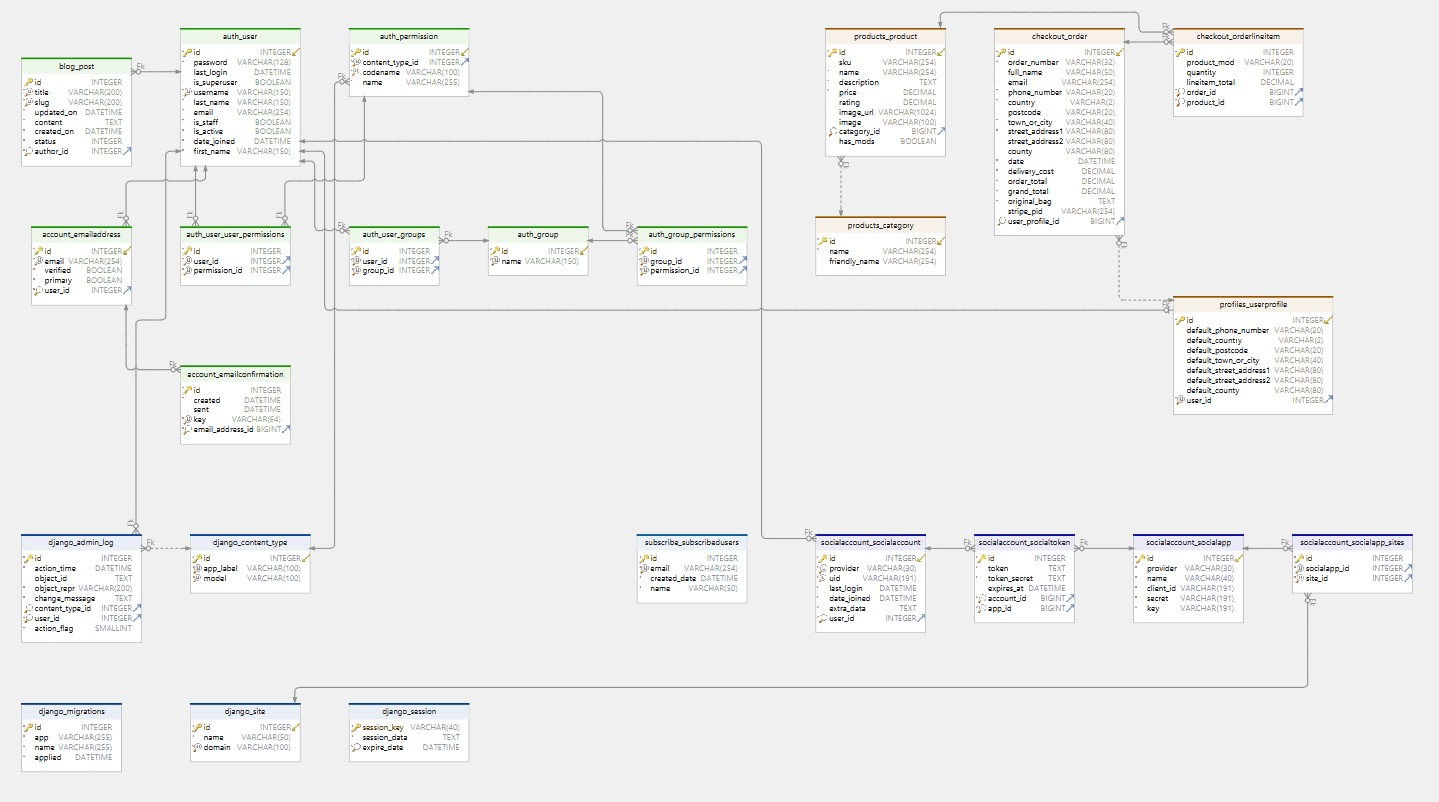
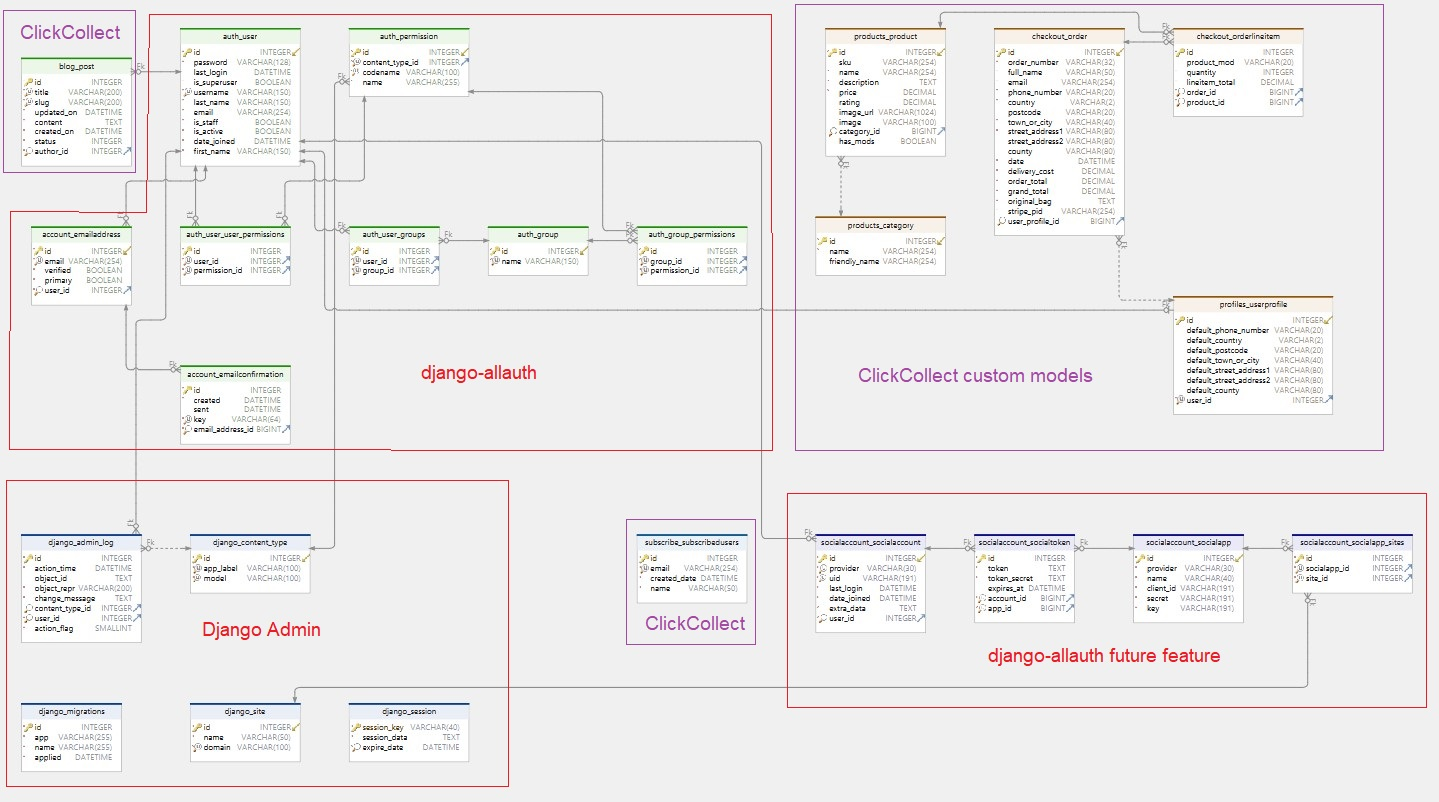
Update db readme section with custom models erd

diff --git a/README.md b/README.md
@@ -292,7 +292,9 @@ Database Entity Relationship Diagram (PostgreSQL)
 
 #### Database Tables
 
-In Django, data is created in objects called Models, which are actually tables in a database.
+In Django, data is created in objects called Models, which are actually tables in a database. The following are the custom built models for this app. Models generated by *allauth* or *Django Admin* are not covered here.
+
+<h2 align="left"><img src="docs/pictures/db-models.jpg"></h2>
 
 **Blog Model**
 
@@ -614,7 +616,7 @@ This page replaces the standard Django **Internal Server Error** page with one m
 * PDF Reader from [Adobe Acrobat Reader](https://www.adobe.com/uk/)
 * Flowchart by [diagrams.net/draw.io](https://www.diagrams.net/)
 * PostgreSQL ERD created by [DbSchema](https://dbschema.com/)
-* Python code summaries generated by ChatGPT from [OpenAI](https://openai.com/)
+* Python code summaries and test files generated by ChatGPT from [OpenAI](https://openai.com/)
 
 ### Front-End
 
